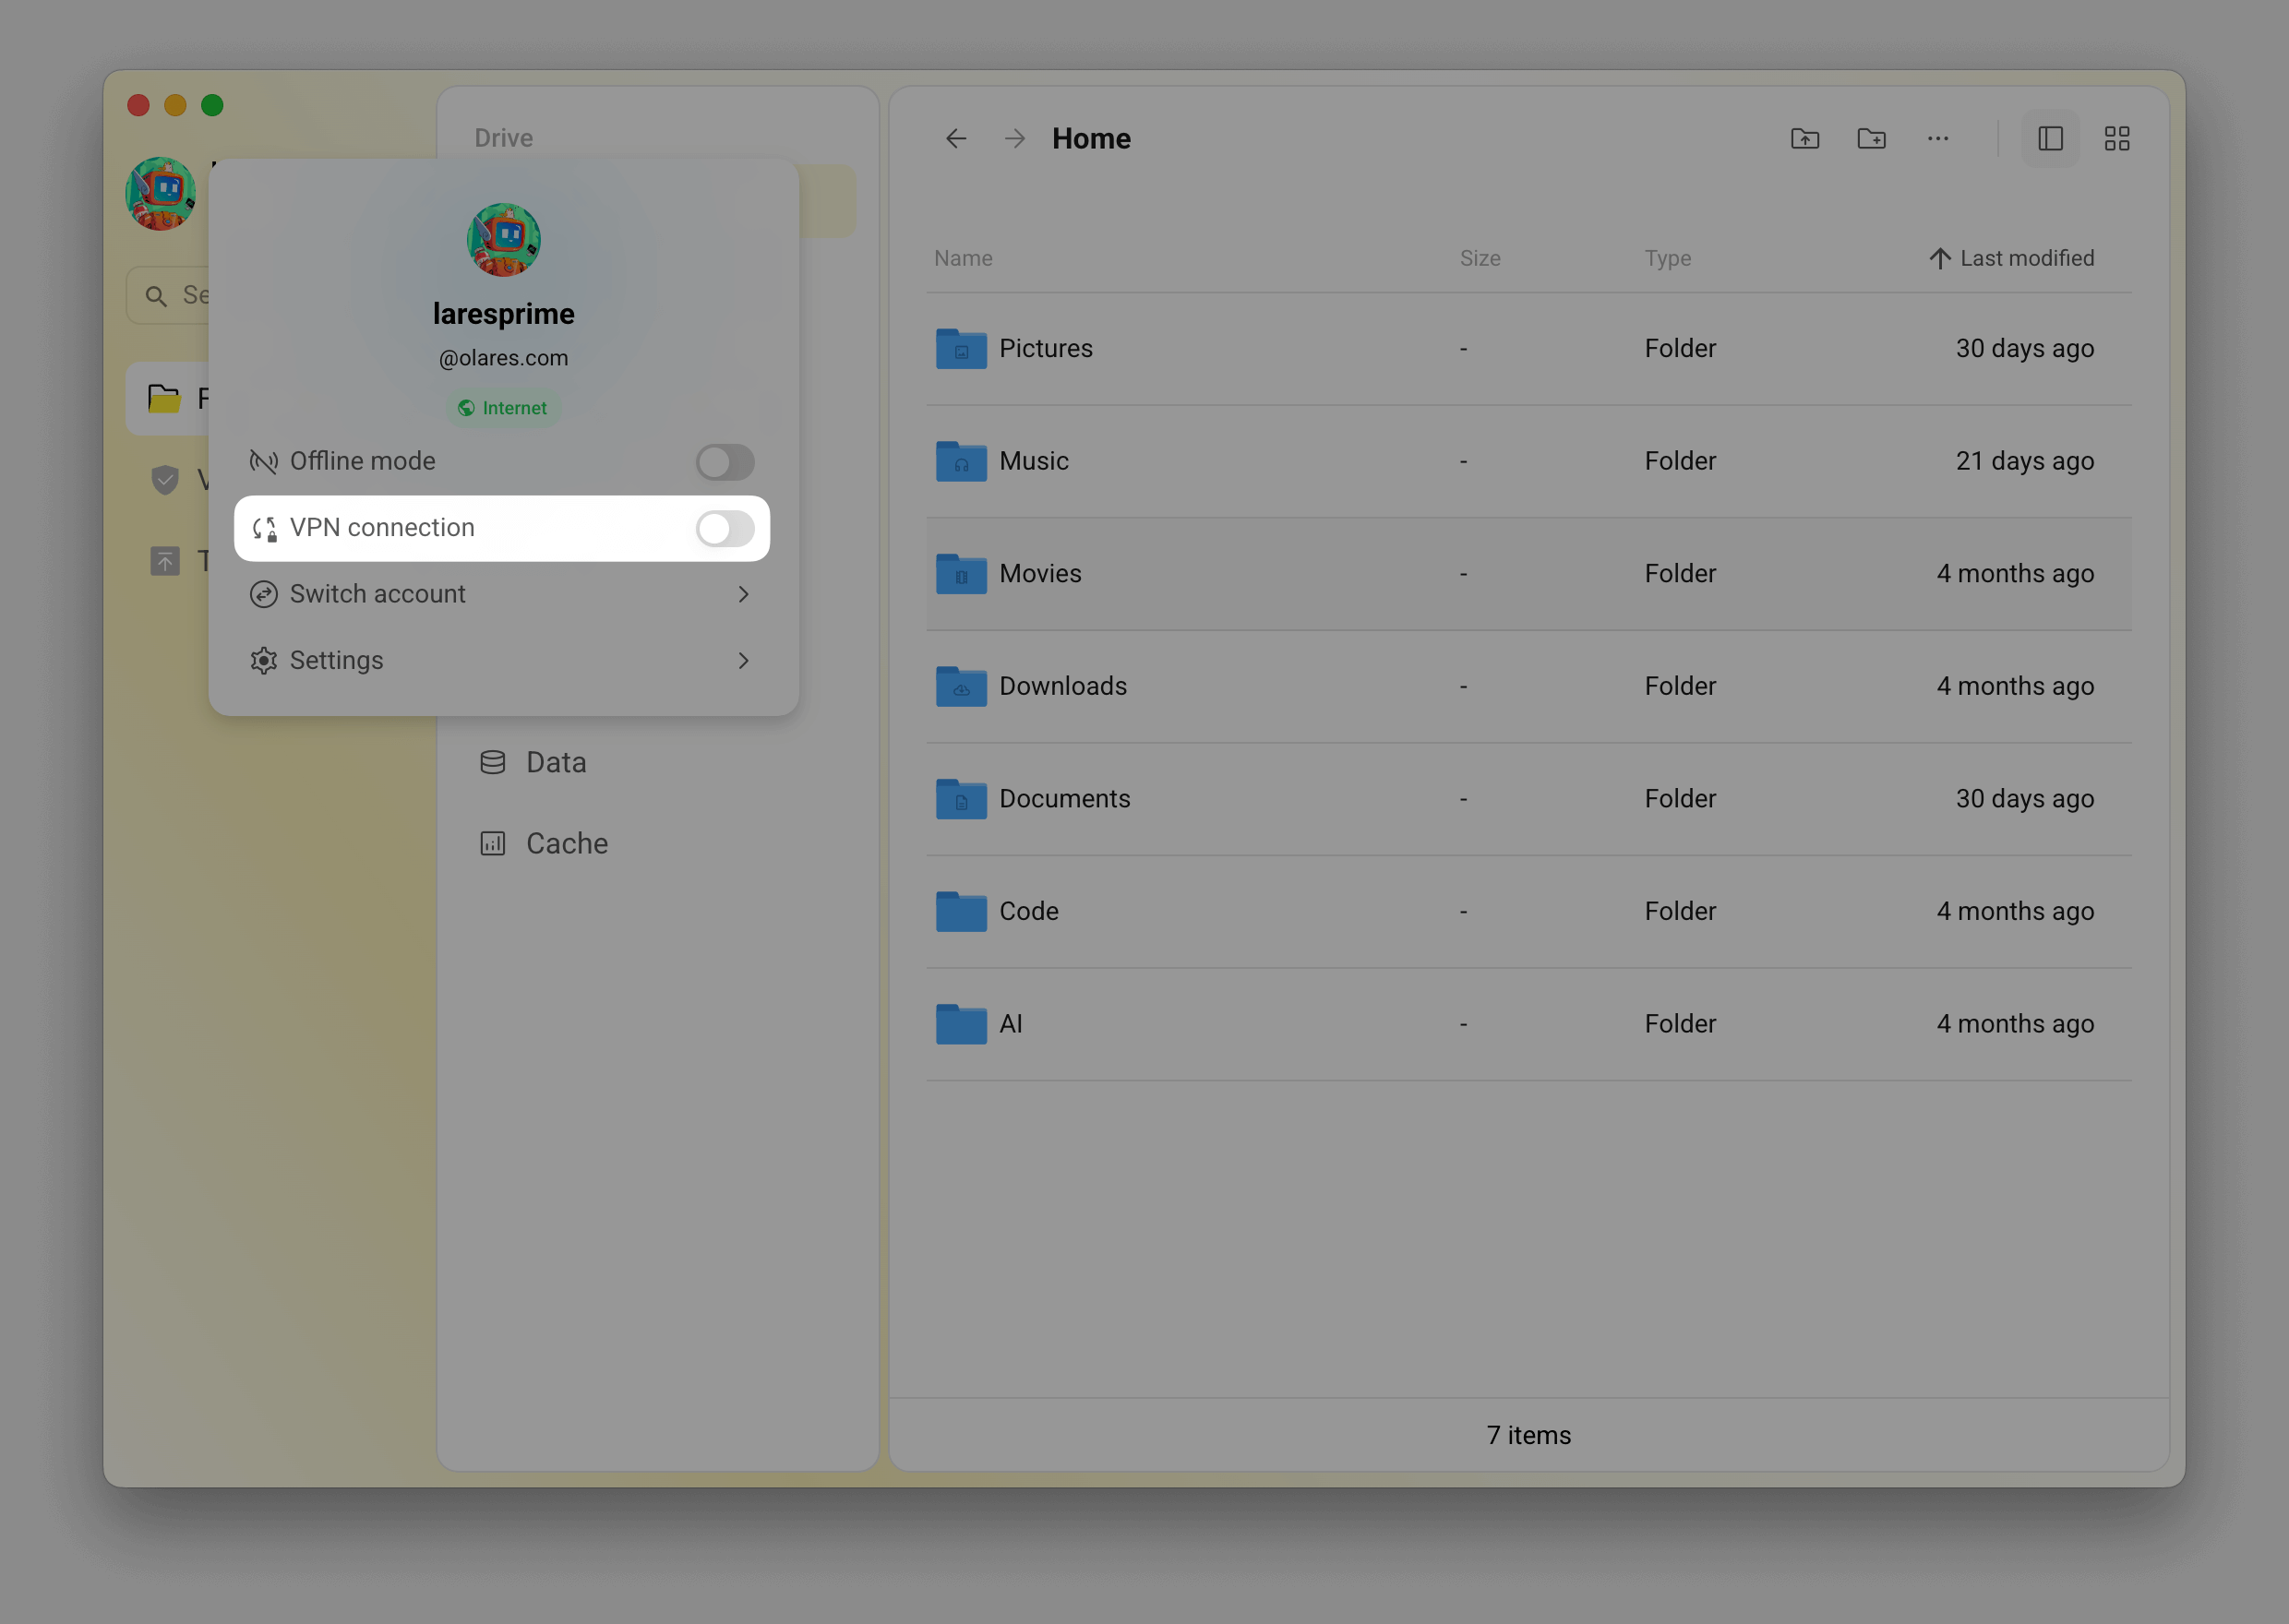
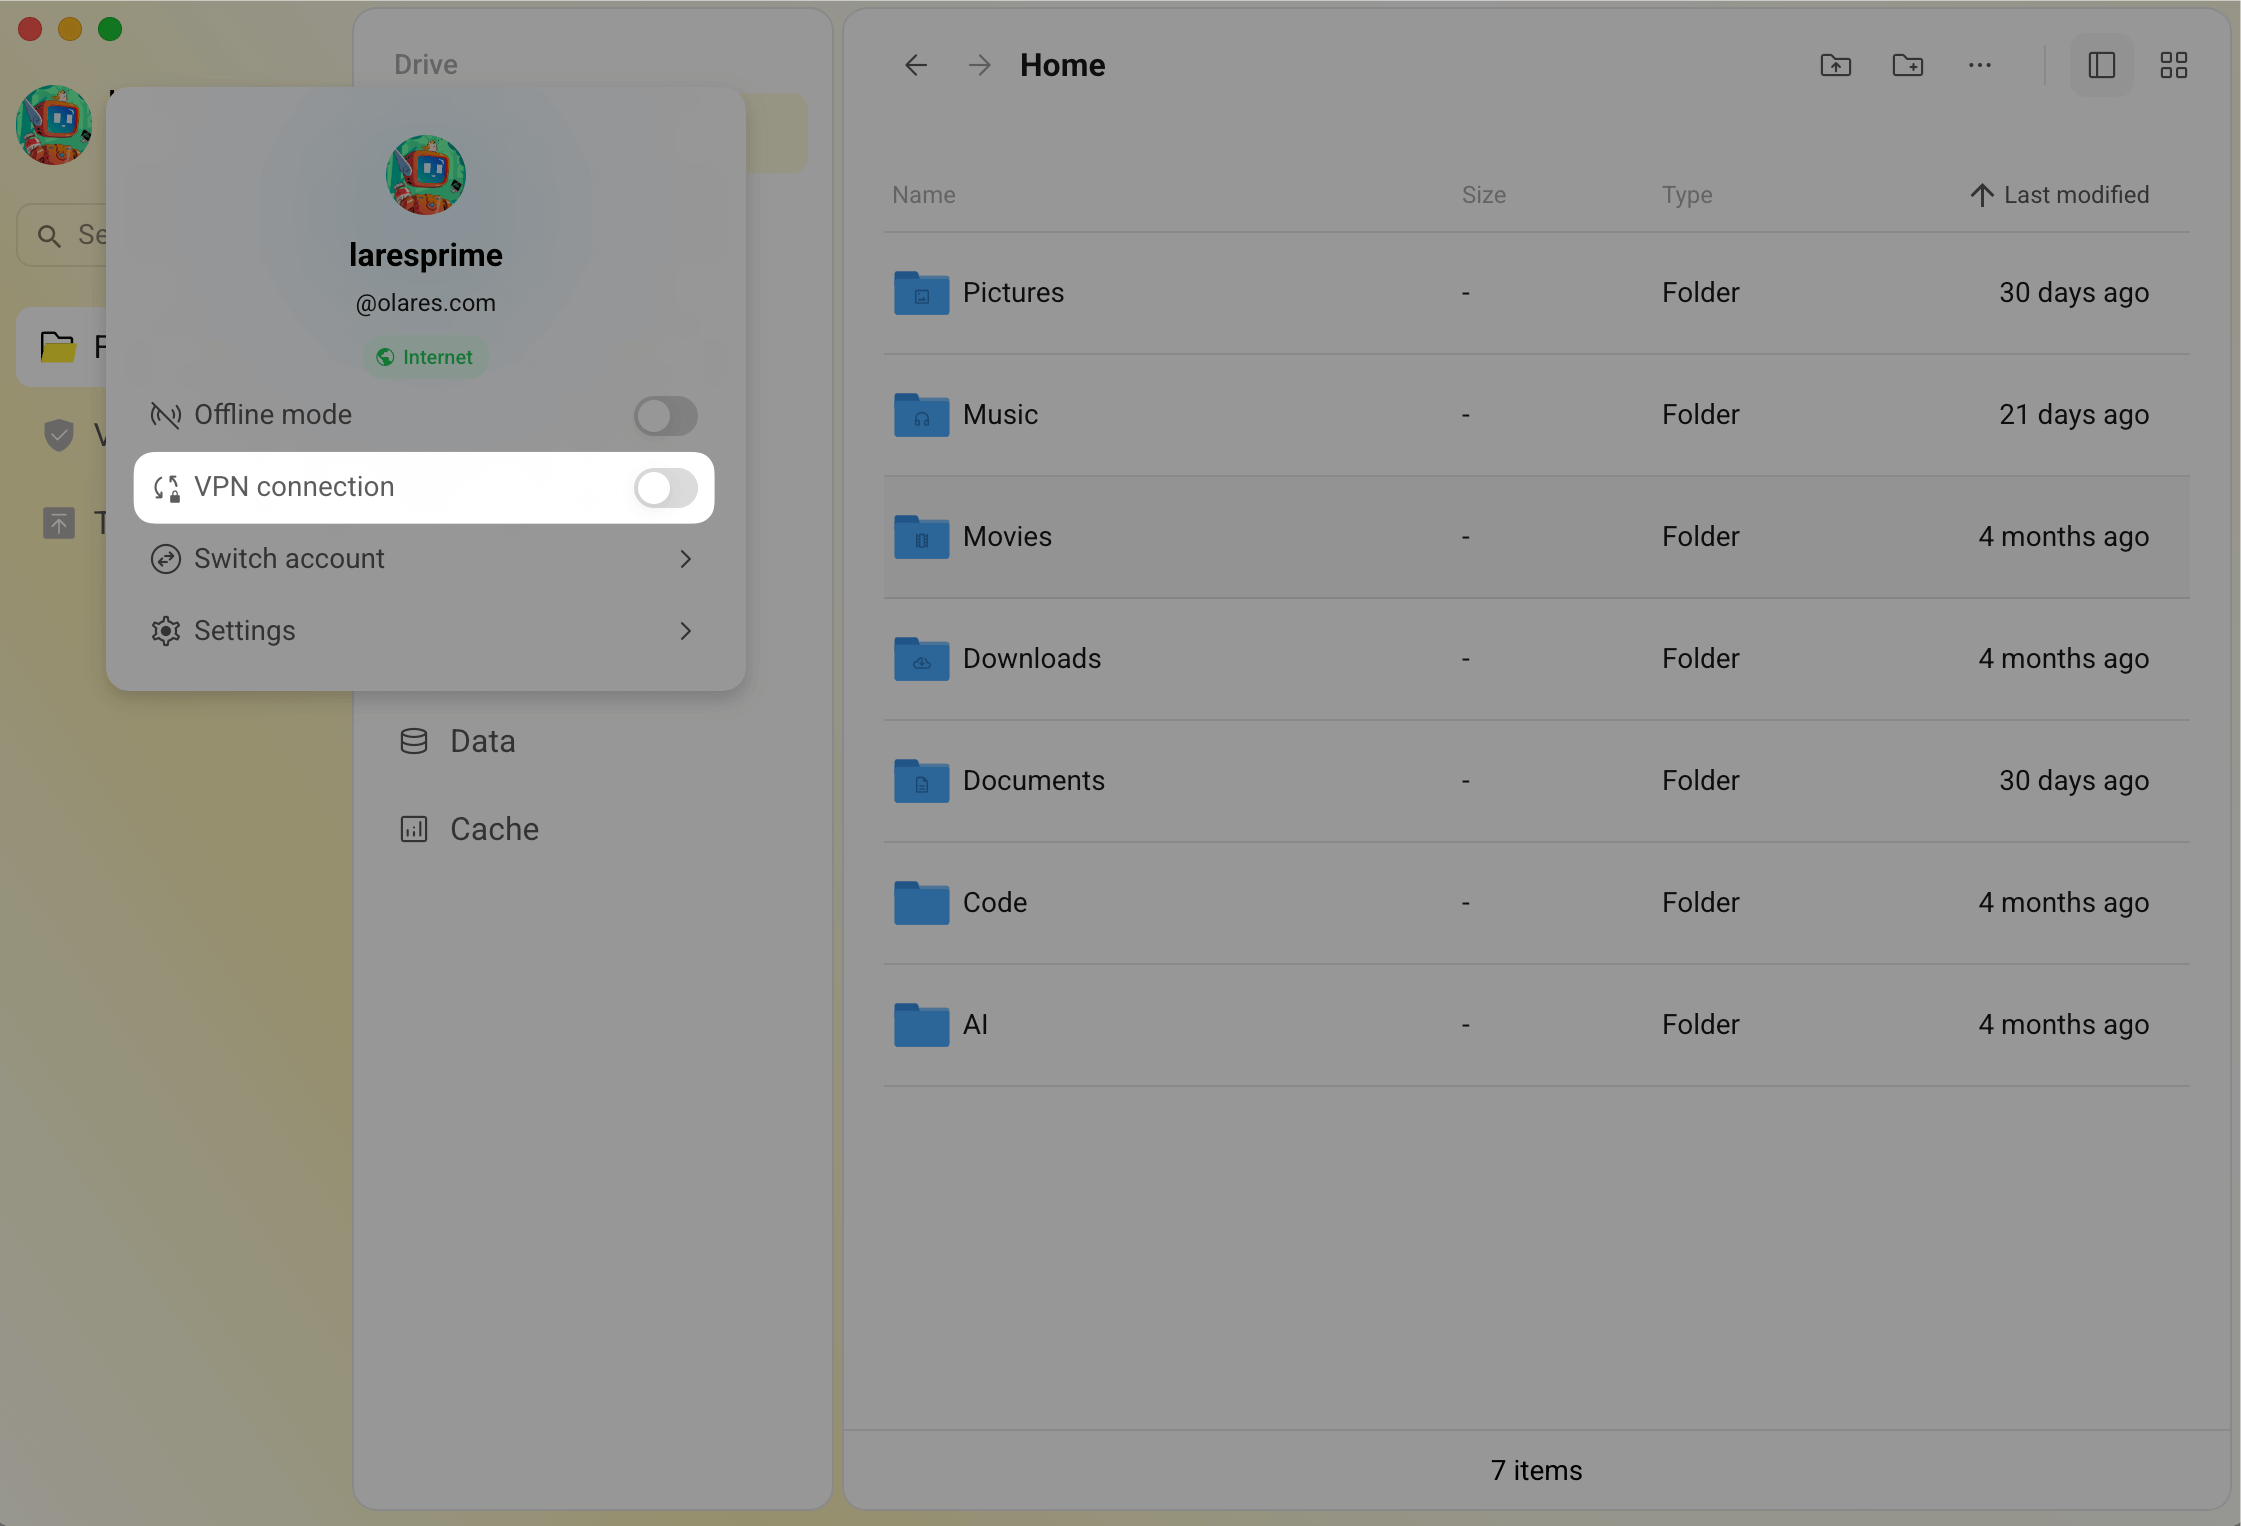
docs: add connect AI apps tutorial (#2630)
* cherry pick connect apps doc

* docs: add connect AI apps tutorial

* address comments

* edits for accuracy and consistency

* address comments

* use AI service app for consistency

* add ZH version and minor edits per comments

* update per comment

---------

diff --git a/docs/.vitepress/en.ts b/docs/.vitepress/en.ts
@@ -512,6 +512,10 @@ const side = {
           text: "Access Olares locally",
           link: "/manual/best-practices/local-access",
         },
+        {
+          text: "Connect AI apps",
+          link: "/manual/best-practices/connect-ai-apps",
+        },
       ],
     },
     { text: "Glossary", link: "/manual/glossary" },

diff --git a/docs/.vitepress/zh.ts b/docs/.vitepress/zh.ts
@@ -511,6 +511,10 @@ const side = {
           text: "本地访问 Olares",
           link: "/zh/manual/best-practices/local-access",
         },
+        {
+          text: "连接 AI 应用",
+          link: "/zh/manual/best-practices/connect-ai-apps",
+        },        
       ],
     },
     { text: "术语", link: "/zh/manual/glossary" },

diff --git a/docs/manual/best-practices/connect-ai-apps.md b/docs/manual/best-practices/connect-ai-apps.md
@@ -1,0 +1,195 @@
+---
+outline: [2, 3]
+description: Learn how to connect AI applications on Olares using shared endpoints, with Ollama as a practical example.
+---
+
+# Connect AI apps
+
+Many AI applications on Olares follow the same pattern: one app provides AI capabilities over an API, and another app provides the interface you use every day. Once you understand this pattern, you can apply the same steps to connect almost any compatible combination of apps.
+
+This tutorial explains the core concepts and walks you through practical examples using Ollama as the AI service app.
+
+## Objectives
+
+By the end of this tutorial, you will be able to:
+
+- Distinguish between AI service apps and client apps.
+- Configure authentication levels to allow seamless app-to-app communication.
+- Understand when to use shared endpoint or user endpoint.
+- Connect common client apps such as LobeHub (previously LobeChat), n8n, and Continue.dev to Ollama.
+
+## How it works
+
+Connecting a client app to an AI service app usually involves three steps:
+
+1. In Olares Settings, find the API entrance of the AI service app, and set its **Authentication level** to **Internal**.
+2. Copy the endpoint shown for that entrance.
+3. In the client app, paste this endpoint into the model or API configuration page. If the connection fails, adjust the endpoint according to the rules in [Which endpoint to use](#which-endpoint-to-use).
+
+## Core concepts
+
+### AI service apps vs. Client apps
+
+- **AI service apps**: These act as the backend engine. They provide AI capabilities over an API, and they often run as services without a chat interface of their own. For example, Ollama and ComfyUI Shared.
+- **Client apps**: These act as the user-facing app. They provide the chat interface you interact with directly, but they rely on an AI service app to generate responses. For example, LobeHub, Open WebUI, and n8n.
+
+### Authentication levels
+
+Olares provides the following access levels for application entrance:
+- **Internal (recommmended)**: Allows apps to communicate without login prompts. It also allows access via your local network or via LarePass VPN. 
+<!--- **Private**: Requires user authentication, which might break automated API connections between apps.-->
+- **Public**: Open to anyone on the internet. Not recommended for private services.
+
+### Frontend calls vs. Backend calls
+
+Client apps send API requests to AI service apps in one of the following ways:
+- **Backend calls (highly recommended)**: The client app's server process makes the request directly to the AI service app. By setting the service app's API to "Internal", these calls bypass authentication, making this the most stable connection method.
+- **Frontend calls**: The request is sent directly from your browser. This avoid server-side forwarding, making it generally faster. However, even with "Internal" permissions, these calls might trigger Olares login prompts or be blocked by Cross-Origin (CORS) restrictions, causing the connection to fail.
+
+### Endpoints
+
+An endpoint is the URL through which an application's entrance can be reached. When an AI service app exposes an API entrance, you will usually see two types of endpoint:
+
+| Type | Format | Description |
+|------|--------|-------------|
+| User endpoint | `https://{route-ID}.{OlaresID}.olares.com` | Frontend calls or external access via VPN. |
+| Shared endpoint | `http://{route-ID}.shared.olares.com` | Backend calls. System-wide access, highly reliable for app-to-app communication. |
+
+### Which endpoint to use
+
+:::tip
+This tutorial covers connections using the `olares.com` domain. If your client device is on the same local network as Olares, the same approach applies using the `.local` address.
+:::
+
+1. Try the shared endpoint first (`http://{route-ID}.shared.olares.com`).
+
+   Shared endpoints are designed for direct app-to-app API access. They do not require user credentials and are generally the most reliable option.
+2. Fall back to the user endpoint (`https://{route-ID}.{OlaresID}.olares.com`). 
+
+   If the shared endpoint is unavailable, or the client app sends requests from the browser rather than its own server, use the user endpoint. Set its **Authentication level** to **Internal** (recommended) so it can be accessed without a login prompt but is not exposed publicly.
+3. Add suffixes if needed. 
+
+   Many client apps expect the base URL to end with `/v1` for OpenAI-compatible APIs, or `/api` for other formats. If the connection fails, try appending the appropriate suffix. For example: `http://{route-ID}.shared.olares.com/v1`. This applies to both endpoint types.
+4. Use a placeholder API key.
+
+   If a client app requires an API key but the service does not use one, enter any placeholder text such as `ollama` to satisfy the required field.
+
+## Examples
+
+### Connect Ollama to LobeHub
+
+In this example, Ollama acts as the AI service app, and LobeHub is the client app.
+
+This example uses `qwen2.5:1.5b` as the model. Make sure you have downloaded it before starting.
+
+1. On Olares, open Settings, then go to **Applications** > **Ollama**.
+2. In **Shared entrances**, select **Ollama API**.
+   ![Ollama shared entrance](/images/manual/tutorials/api-ollama-shared.png#bordered){width=80%}
+   
+3. Copy the shared endpoint URL.
+4. Open LobeHub, then go to **Settings** > **AI Service Provider** > **Ollama**.
+5. In the **Interface proxy address** field, paste the shared endpoint you copied.
+   :::warning
+   If you are using local Ollama models, do not enable **Use Client Request Mode**. This setting switches the app to use [frontend calls](#frontend-calls-vs-backend-calls), which often triggers login prompts or connection failures when using local AI service apps.
+   :::
+   ![Enter shared endpoint](/images/manual/tutorials/api-lobechat-enter-url.png#bordered)
+6. Verify the connection:
+
+   a. Click **Fetch models**. Models you have downloaded in Ollama will appear in the list.
+   ![Fetch models](/images/manual/tutorials/api-lobechat-fetch-models.png#bordered)
+
+   b. Enable the models you want to use. For example, enable **Qwen2.5 1.5B**.
+
+   c. For **Connectivity Check**, select **qwen2.5:1.5b** from the dropdown, then click **Check**.
+
+      When **Check Passed** appears, the connection is established.
+      ![Check passed](/images/manual/tutorials/api-lobechat-check-passed.png#bordered)
+
+### Connect Ollama to n8n
+
+n8n makes requests from the browser rather than its server, so it requires a user endpoint. Configure the authentication level to **Internal** so it can be accessed without a login prompt.
+
+:::tip Network requirement
+Ensure that your device is on the same local network as Olares or has the VPN enabled in LarePass for the connection to work.
+:::
+
+1. On Olares, open Settings, then go to **Application** > **Ollama**.
+2. In **Entrances**, click **Ollama API**.
+3. Set the **Authentication level** to **Internal**.
+4. Click **Set up endpoint**, then copy the endpoint URL displayed.
+5. Create a new Ollama credential in n8n:
+
+   a. In n8n, select **+** > **Credential** from the left navigation bar.
+
+   b. In the **Add new credential** dialog, select **Ollama** from the dropdown, then click **Continue**.
+
+   c. Paste the Ollama endpoint URL you copied.
+
+   d. Click **Save**. n8n will automatically test the connection.
+
+      When **Connection tested successfully** appears, the connection is established.   
+      ![n8n Ollama connected](/images/manual/tutorials/api-n8n-connected.png#bordered)
+
+### Connect Ollama to Continue.dev (outside Olares)
+
+You can connect your local IDE to Ollama running on your Olares system, so that AI assistance and code completion are powered by your own hardware rather than a third-party cloud.
+
+This example uses `llama3.1:8b`, `qwen2.5-coder:7b`, and `qwen2.5-coder:1.5b`. Make sure you have downloaded these models before starting.
+
+1. On Olares, open Settings, then go to **Application** > **Ollama**.
+2. In **Entrances**, click **Ollama API**.
+3. Set the **Authentication level** to **Internal**.
+4. Click **Set up endpoint**, then copy the endpoint URL displayed.
+5. In your local IDE (for example, IntelliJ IDEA), open the Continue panel.
+6. Configure models in Continue to use Ollama:
+
+   a. Click **Local Config** to open the **Configs** menu, then click the Settings icon next to **Local Config**.
+   ![Open local config](/images/manual/tutorials/api-continue-local-config.png#bordered){width=45%}
+
+   b. In the `config.yaml` that opens, update the model entries with the Ollama endpoint you copied:
+   ```yaml
+   name: Local Config
+   version: 1.0.0
+   schema: v1
+   models:
+   - name: Llama3.1-8B
+      provider: ollama
+      model: llama3.1:8b
+      apiBase: https://<your-ollama-endpoint>
+      roles:
+         - chat
+   - name: Qwen2.5-Coder 7B
+      provider: ollama
+      model: qwen2.5-coder:7b
+      apiBase: https://<your-ollama-endpoint>
+      roles:
+         - edit
+         - embed
+         - rerank
+   - name: Qwen2.5-Coder 1.5B
+      provider: ollama
+      model: qwen2.5-coder:1.5b
+      apiBase: https://<your-ollama-endpoint>
+      roles:
+         - autocomplete
+         - apply
+   ```
+7. Enable the VPN on your LarePass desktop client.
+   ![Enable LarePass VPN on desktop](/images/manual/get-started/larepass-vpn-desktop.png#bordered)
+
+8. In the Continue chat panel, enter a prompt to test the connection. For example:
+   ```plain
+   Write a hello world python script
+   ```
+   ![Enter prompt](/images/manual/tutorials/api-continue-prompt.png#bordered){width=45%}
+
+   Continue will route the request to Ollama on your Olares system and return the result. With LarePass VPN enabled, your IDE can reach the Ollama endpoint as if it were on the same private network.
+   ![Result](/images/manual/tutorials/api-continue-hello-world.png#bordered){width=45%}
+
+## Learn more
+
+- [Applications](../../developer/concepts/application.md)
+- [Network](../../developer/concepts/network.md)
+- [Manage application entrances](../olares/settings/manage-entrance.md)
+- [Use cases](../../use-cases/index.md)
+

diff --git a/docs/manual/best-practices/index.md b/docs/manual/best-practices/index.md
@@ -11,3 +11,4 @@ This section offers in-depth guides and proven best practices to help you get th
 - [Install Olares on PVE via ISO with GPU Passthrough](install-olares-gpu-passthrough.md)
 - [Expand Olares storage capacity](expand-storage-in-olares.md)
 - [Access Olares services locally](local-access.md)
+- [Connect AI apps](connect-ai-apps.md)

diff --git a/docs/zh/manual/best-practices/connect-ai-apps.md b/docs/zh/manual/best-practices/connect-ai-apps.md
@@ -1,0 +1,1 @@
+<!-- @include: ../../../manual/best-practices/connect-ai-apps.md -->